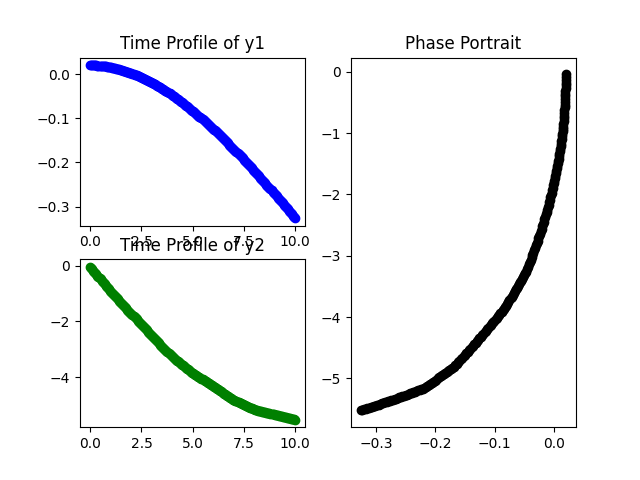
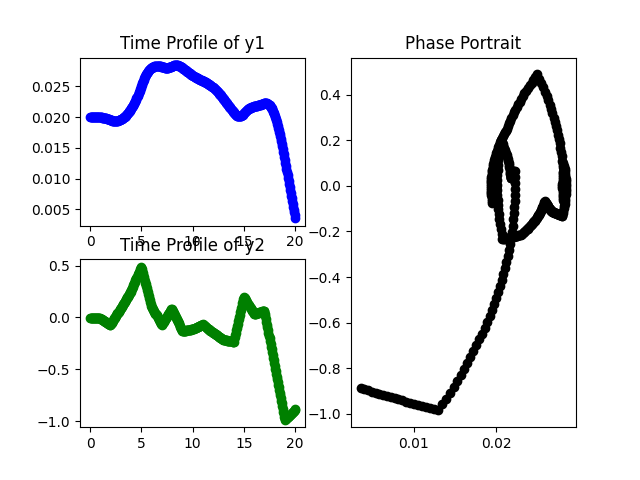
Refactored the code for descriptions and better variable names

diff --git a/src/ltv_sys_id.py b/src/ltv_sys_id.py
@@ -15,10 +15,10 @@ class LTV_SysID:
 
     def sys_id_state_pertb(self, x_t, u_t):
         '''
-            x_t = (nx,1)
-            u_t = (nu,1)
-			system identification for a given nominal state and control
-			returns - a numpy array with F_x and F_u horizantally stacked
+        System identification at a single time step using state perturbations
+        x_t : (n_x, 1)
+        u_t : (n_u, 1)
+        returns : AB : (n_x, n_x+n_u)
 		'''
 		################## defining local functions & variables for faster access ################
         n_x = self.n_x
@@ -39,6 +39,9 @@ class LTV_SysID:
         '''
         Need a simulate function from the actual example
         forward_simulate(self,x,u)
+        X : (n_samples, n_x)
+        U : (n_samples, n_u)
+        returns : X_next : (n_samples, n_x)
         '''
         X_next = np.zeros((X.shape[0], self.n_x))
         for i in range(X.shape[0]):
@@ -47,6 +50,12 @@ class LTV_SysID:
         return X_next
 
     def traj_sys_id_state_pertb(self,x_nom,u_nom):
+        """
+        System identification over the entire trajectory using state perturbations
+        x_nom : (N+1, n_x, 1)
+        u_nom : (N, n_u, 1)
+        returns : traj_AB : (N, n_x, n_x+n_u)
+        """
         traj_AB = []
         for i in range(u_nom.shape[0]):
             traj_AB.append(self.sys_id_state_pertb(x_nom[i],u_nom[i]))
@@ -54,33 +63,44 @@ class LTV_SysID:
         return np.array(traj_AB)
     
     def traj_sys_id(self, x_nom, u_nom, central_diff=0): #TODO rollout 
-        
-        
+        """
+        System identification over the entire trajectory using control perturbations
+        x_nom : (N+1, n_x, 1)
+        u_nom : (N, n_u, 1)
+        returns : traj_AB : (N, n_x, n_x+n_u)
+        """            
         delta_x = np.zeros(((self.N+1), self.n_x, self.n_samples))
-        X, U_ = self.generate_rollouts(x_nom, u_nom)
+        X_pertb, U_pertb = self.generate_rollouts(x_nom, u_nom)
         traj_AB = []
 
         # Generating delta_x for all rollouts
         for i in range(self.N+1):
-            delta_x[i] = X[i] - x_nom[i]
+            delta_x[i] = X_pertb[i] - x_nom[i]
             if i>0:
-                regressor = np.hstack([delta_x[i-1,:].T, (U_[i-1].T).reshape(self.n_samples, self.n_u)])
+                regressor = np.hstack([delta_x[i-1,:].T, (U_pertb[i-1].T).reshape(self.n_samples, self.n_u)])
                 AB = np.linalg.lstsq(regressor, delta_x[i].T, rcond=None)[0].T
                 traj_AB.append(AB)
                            
-        return traj_AB
+        return np.array(traj_AB)
     
     def generate_rollouts(self, x_nom, u_nom):
+        """
+        Generate rollouts around nominal trajectory using control perturbations
+        x_nom : (N+1, n_x, 1)
+        u_nom : (N, n_u, 1)
+        returns : X_pertb : (N+1, n_x, n_samples)
+                  U_pertb : (N, n_u, n_samples)
+        """
         # Taking control perturbations as a function of max control
         u_max = np.max(abs(u_nom))
-        U_ = self.sigma*u_max*np.random.normal(0, self.sigma, (self.N+1, self.n_u, self.n_samples))
-        X = np.zeros((self.N+1, self.n_x, self.n_samples))
+        U_pertb = self.sigma*u_max*np.random.normal(0, 1, (self.N+1, self.n_u, self.n_samples))
+        X_pertb = np.zeros((self.N+1, self.n_x, self.n_samples))
         ctrl = np.zeros((self.n_u, 1))
 
         for j in range(self.n_samples):
-            X[0, :, j] = x_nom[0].flatten()
+            X_pertb[0, :, j] = x_nom[0].flatten()
             for i in range(self.N):
-                ctrl[:] = u_nom[i] + U_[i,:,j].reshape(np.shape(u_nom[i]))
-                X[i+1, :, j] = self.model.simulate(X[i, :, j], ctrl.flatten()).flatten()
+                ctrl[:] = u_nom[i] + U_pertb[i,:,j].reshape(np.shape(u_nom[i]))
+                X_pertb[i+1, :, j] = self.model.simulate(X_pertb[i, :, j], ctrl.flatten()).flatten()
 
-        return X, U_
+        return X_pertb, U_pertb

diff --git a/src/arma_ltv_sys_id.py b/src/arma_ltv_sys_id.py
@@ -17,55 +17,50 @@ class ARMA_LTV_SysID(LTV_SysID):
             n_samples: number of perturbed trajectories
             pert_sigma: perturbation standard deviation for actions
         """
-        super().__init__(MODEL, n_x, n_u, n_samples, pert_sigma)
-        self.model = MODEL
-        self.n_x = n_x
-        self.n_u = n_u
+        # super().__init__(MODEL, n_x, n_u, N, n_samples, pert_sigma)
+        LTV_SysID.__init__(self, MODEL, n_x, n_u, N, n_samples = n_samples, pert_sigma = pert_sigma)
         self.n_z = n_z
         self.C = C
         self.q = q
         self.q_u = q_u
-        self.N = N
-        self.sigma = pert_sigma
-        self.n_samples = n_samples
-        self.pert_sigma = pert_sigma
-        
-        #LTV_SysID.__init__(self, MODEL, n_x, n_u, n_samples, pert_sigma)
 
     def traj_sys_id(self, x_nom, u_nom):
-
         '''
             system identification for a given nominal state and control
+            x_nom = (N+1, n_x, 1)
+            u_nom = (N, n_u, 1)
             returns - a numpy array with F_x and F_u horizantally stacked
 		'''
 		################## defining local functions & variables for faster access ################
-        n_x = self.n_x
-        n_u = self.n_u
-        n_z = self.n_z
-        q = self.q
-        q_u = self.q_u
-        N = self.N
+        n_z, N = self.n_z, self.N
         self.X_0 = (x_nom[0]).reshape(n_z,1)
         Z_nom = x_nom
 		##########################################################################################
         # Generating perturbations
-        X, U_ = self.generate_rollouts(x_nom, u_nom)
-        Z = self.C @ X
-        U_ = U_.reshape(self.N+1*n_u, self.n_samples).T       
-        delta_z = np.zeros((self.n_samples, n_z*(N+1)))
+        X_pertb, U_pertb = self.generate_rollouts(x_nom, u_nom)
+        # print(X_pertb.shape, U_pertb.shape)
+        Z = self.C @ X_pertb
+        # print(Z.shape)
+        U_pertb = U_pertb.reshape((self.N+1)*self.n_u, self.n_samples).T
+        # print(U_pertb.shape)
+        delta_z = np.zeros((self.n_samples, self.n_z*(N+1)))
         
         # Generating delta_z for all rollouts
         for j in range(self.n_samples):
             for i in range(N):
-                delta_z[j, n_z*(N-i-1):n_z*(N-i)] = Z[i+1,j] - Z_nom[i+1]
+                delta_z[j, n_z*(N-i-1):n_z*(N-i)] = Z[i+1,:,j] - Z_nom[i+1,0]
         
-        return self.arma_fit(delta_z, U_, self.n_z, self.n_u, self.q, self.q_u, self.N, self.n_samples)
+        return self.arma_fit(delta_z, U_pertb)
  
 
-    def arma_fit(self, delta_z, U_, n_z, n_u, q, q_u, N, n_samples):
+    def arma_fit(self, delta_z, U_pertb):
         """
         ARMA LTV fitting with A_aug and B_aug construction
         """
+        ################## defining local functions & variables for faster access ################
+        n_z, n_u, q, q_u, N, n_samples = self.n_z, self.n_u, self.q, self.q_u, self.N, self.n_samples
+        ##########################################################################################
+
         fitcoef = np.zeros((n_z, n_z*q + n_u*q_u, N))
     
         # Handle edge case: when q_u=1, there's no control history to store
@@ -107,7 +102,7 @@ class ARMA_LTV_SysID(LTV_SysID):
         for i in range(max(q, q_u), N):
             # Build regressors - same as before
             M1[:, :n_z*q] = delta_z[:, n_z*(N-i):n_z*(N-i+q)]
-            M1[:, n_z*q:] = U_[:, n_u*(N-i):n_u*(N-i+q_u)]
+            M1[:, n_z*q:] = U_pertb[:, n_u*(N-i):n_u*(N-i+q_u)]
             delta[:, :] = delta_z[:, n_z*(N-i-1):n_z*(N-i)]
             
             # Solve least squares
@@ -163,4 +158,5 @@ class ARMA_LTV_SysID(LTV_SysID):
                     rows_to_fill = min(remaining_rows, b_ctrl_block.shape[0])
                     B_aug[i, top_rows:top_rows+rows_to_fill, :] = b_ctrl_block[:rows_to_fill, :]
         
-        return A_aug, B_aug
+        AB_aug = np.concatenate((A_aug, B_aug), axis=2)
+        return AB_aug

diff --git a/src/main_ilqr.py b/src/main_ilqr.py
@@ -56,6 +56,8 @@ class iLQR:
     def iterate_ilqr(self, n_iter, u_init=None):
         '''
 			Main function that carries out the algorithm at higher level
+            n_iter : Number of iLQR iterations to run
+            u_init : Initial guess for control trajectory         
 		'''
 
 		# Initialize the trajectory with the desired initial guess
@@ -100,13 +102,15 @@ class iLQR:
         # Initialize before forward pass
         del_J_alpha = 0
 
-        Fx_Fu = self.ltv_sys_id.traj_sys_id_state_pertb(np.concatenate((self.X_0.reshape(1, self.n_x, 1), self.X), axis=0), self.U)
-        # Fx_Fu = self.ltv_sys_id.traj_sys_id(np.concatenate((self.X_0.reshape(1, self.n_x, 1), self.X), axis=0), self.U.reshape(self.N,self.n_u))
+        # State Perturbation based SysID
+        # Fx_Fu = self.ltv_sys_id.traj_sys_id_state_pertb(np.concatenate((self.X_0.reshape(1, self.n_x, 1), self.X), axis=0), self.U)
+        
+        # Control Perturbation based SysID
+        Fx_Fu = self.ltv_sys_id.traj_sys_id(np.concatenate((self.X_0.reshape(1, self.n_x, 1), self.X), axis=0), self.U)
+        
         for t in range(self.N-1, -1, -1):
             F_x = Fx_Fu[t][:,:self.n_x]
             F_u = Fx_Fu[t][:,self.n_x:]
-            # F_x = A_aug[t]
-            # F_u = B_aug[t]
             if t>0:
                 Q_x, Q_u, Q_xx, Q_uu, Q_ux = self.get_gradients(F_x,F_u,self.X[t-1],self.U[t],V_x[t], V_xx[t])
             else:
@@ -167,6 +171,16 @@ class iLQR:
         return forward_pass_flag
 
     def get_gradients(self,F_x,F_u,x,u,V_x_next, V_xx_next):
+        """
+        Compute the gradients of Q function
+        F_x : (nx,nx)
+        F_u : (nx,nu)
+        x : (nx,1)
+        u : (nu,1)
+        V_x_next : (nx,1)
+        V_xx_next : (nx,nx)
+        returns : Q_x, Q_u, Q_xx, Q_uu, Q_
+        """
 
         Q_x = self.l_x(x) + ((F_x.T) @ V_x_next)
         Q_u = self.l_u(u) + ((F_u.T) @ V_x_next)
@@ -201,7 +215,10 @@ class iLQR:
         return (((x - self.X_N).T @ self.Q_final) @ (x - self.X_N)) 
 
     def initialize_traj(self,u_init):
-        #TODO: check this vectorize function, deprecate the for loop below
+        """
+        Initialize the nominal trajectory with an initial guess for control
+        u_init : (N, n_u, 1)
+        """
         if u_init is None:
             self.U = np.random.normal(0, self.nominal_init_stddev, (self.N, self.n_u, 1))
         else:
@@ -257,7 +274,10 @@ class iLQR:
         plt.show()
 
     def save_policy(self, path_to_file):
-
+        """
+        Save the learned policy to a json file
+        path_to_file : string
+        """
         Pi = {}
 		# Open-loop part of the policy
         Pi['U'] = {}

diff --git a/examples/vdp/run_vdp_ilqr.py b/examples/vdp/run_vdp_ilqr.py
@@ -56,7 +56,7 @@ if __name__=="__main__":
 
     # Create iLQR instance
     ilqr = iLQR(run_vdp, state_dimension, control_dimension, alpha, horizon, init_state, final_state, Q, Q_final, R, 
-                nominal_init_stddev, n_sys_id_samples=20, pert_sys_id_sigma=1e-3, arma_sys_id_flag = False)
+                nominal_init_stddev, n_sys_id_samples=50, pert_sys_id_sigma=1e-3, arma_sys_id_flag = True)
     ilqr.iterate_ilqr(n_iterations)
 
     ilqr.plot_episodic_cost_history(path_to_training_cost_fig)
@@ -64,7 +64,7 @@ if __name__=="__main__":
     ilqr.save_cost(path_to_cost_file)
 
     # Check and Simulate the obtained policy
-    print
+    # print
     run_vdp.simulate_vdp(y_init = init_state.flatten(), u = ilqr.U.flatten(), horizon=horizon)
     run_vdp.draw_figure(path_to_traj_fig)
 

diff --git a/src/main_pod_ilqr.py b/src/main_pod_ilqr.py
@@ -159,11 +159,21 @@ class POD_iLQR(iLQR):
 
     
     def l_x(self, x):
+        """
+        Compute the gradient of the running cost
+        x : (n_x,1)
+        returns : l_x : (n_x,1)
+        """
         z = np.zeros((np.shape(self.Q)[0], 1))
         z[:self.n_z,:] = self.C @(x - self.X_N)
         return 2*self.Q @ z
 
     def l_x_f(self, x):
+        """
+        Compute the gradient of the terminal cost
+        x : (n_x,1)
+        returns : l_x_f : (n_x,1)
+        """
         z = np.zeros((np.shape(self.Q)[0], 1))
         z[:self.n_z,:] = self.C @(x - self.X_N)
         return 2*self.Q_final @ z

diff --git a/examples/vdp/run_vdp_pod_ilqr.py b/examples/vdp/run_vdp_pod_ilqr.py
@@ -27,7 +27,7 @@ class RunVdp(SimulateVDP):
         self.C = C
 
     def simulate(self,x,u):
-        return self.C@ self.simulate_vdp(x, u)[-1]
+        return self.C @ self.simulate_vdp(x, u)[-1]
 
 
 if __name__=="__main__":

diff --git a/examples/vdp/vdp_params.py b/examples/vdp/vdp_params.py
@@ -15,7 +15,7 @@ R = .05*np.eye(control_dimension)
 # Number of substeps in simulation
 ctrl_state_freq_ratio = 1
 dt = 0.01
-horizon = 10 #800
+horizon = 20 #800
 nominal_init_stddev = 0.1
 
 q = 2
